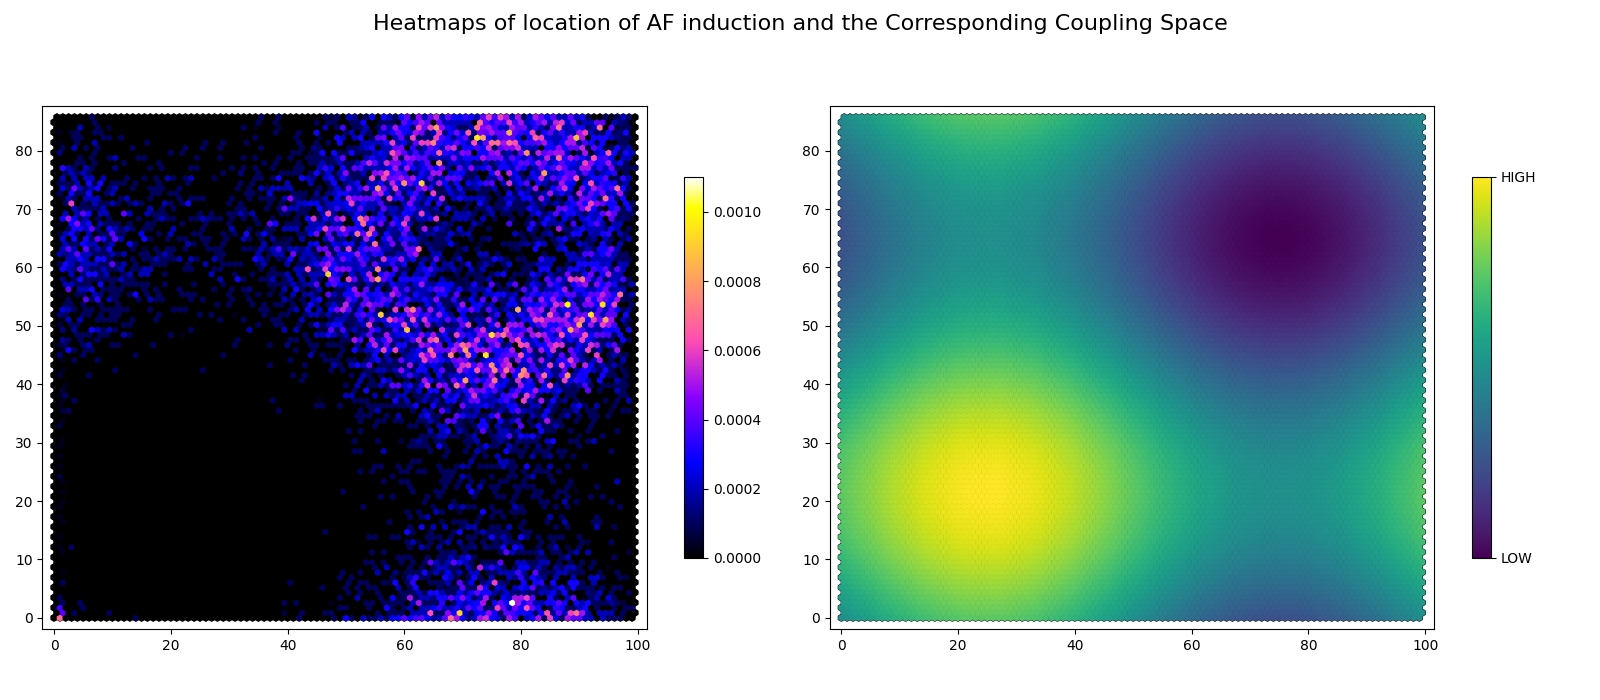
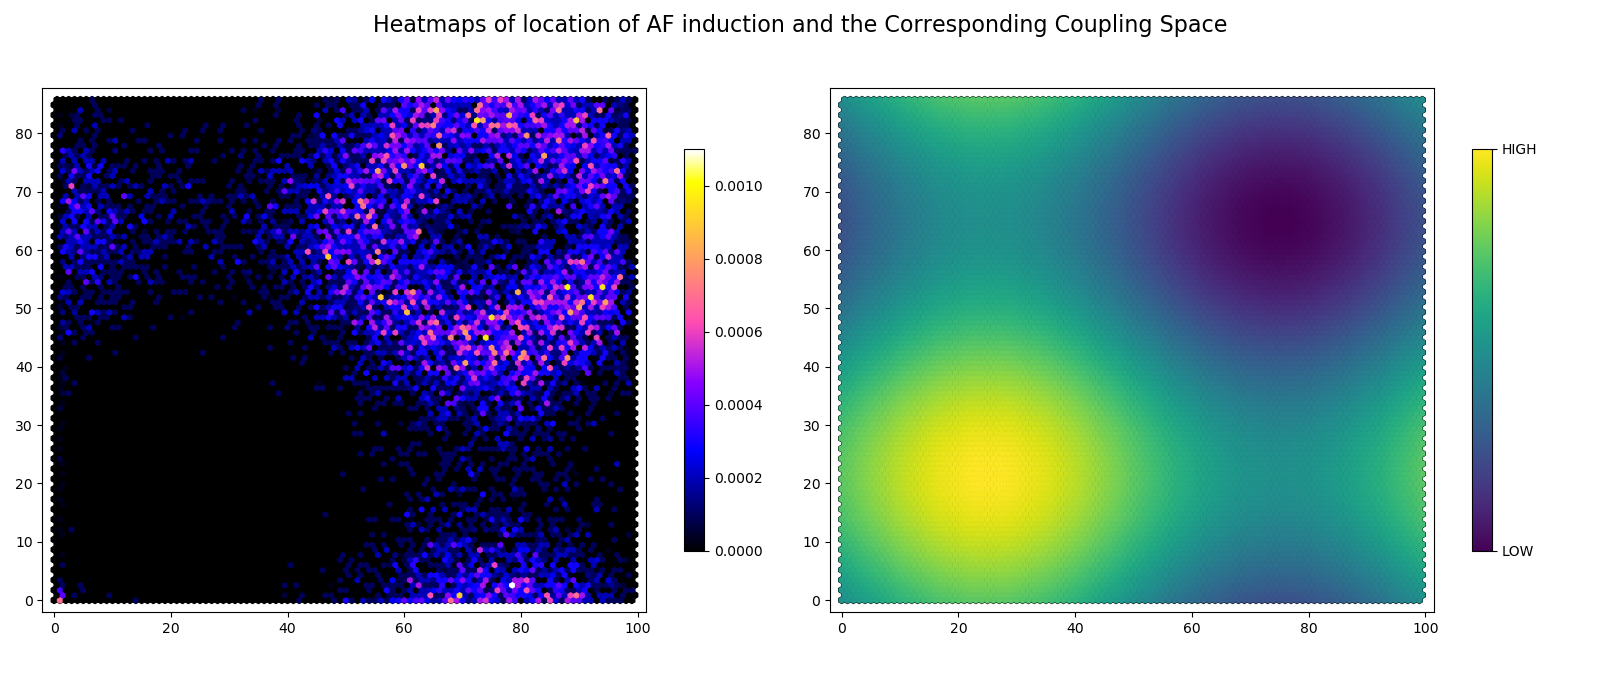
Fixed Heatmap

diff --git a/heatmap.py b/heatmap.py
@@ -46,114 +46,63 @@ def value_counts(df,n):
 
     return np.array(locs_[0])
 
-def plot_heat_map(fname, convolve = True):
+def plot_heat_map(fname, convolve = False, presave = True, contour = False,):
     runs = pd.read_csv(fname + '.csv')
-    #print(type(runs.iloc[6438,21]))
     #Fix problem of trues in location 4, set to location 3 value
     runs.loc[runs['location_4'] == 'True', 'location_4'] = runs.loc[runs['location_4'] == 'True']['location_3']
     runs = runs.loc[runs['in AF?']] #Only look at ones that enter AF.
 
-    #Amplitude above 0.5
-    #Amplitude below 0.1
-    #LIMITS
-    '''for ind, row in runs.iterrows():
-        list_ = str(row['normal_modes_config']).split('[')[1].split(']')[0].split(',')
-        amp, offs = float(list_[1]), float(list_[2])
-        if (amp > 0.5) or (amp < 0.05) or (offs < 0.59):
-            runs = runs.drop(index = ind)'''
-    
-    A = int(fname.split('_')[-1]) #Need to pull out the value of A from fname, dont remember the format.
+    A = int(fname.split('_')[-1])
 
-    fig,(ax1,ax2) = plt.subplots(1,2)
-    fig.set_size_inches(16,7)
+    if contour:
+        fig,ax1 = plt.subplots()
+    else:
+        fig,(ax1,ax2) = plt.subplots(1,2)
+        fig.set_size_inches(16,7)
+
     hex_centers, ax1 = create_hex_grid(nx=100, ny=100, do_plot=True, align_to_origin = False, h_ax = ax1)
     x = [i[0] for i in hex_centers]
     y = [i[1] for i in hex_centers]
 
-    loc2 = value_counts(runs,2)
-    loc3 = value_counts(runs,3)
-    loc4 = value_counts(runs,4)
+    if presave:
+        locs = np.load('con_locs_{}.npy'.format(A)) #Retri
+    else:
+        loc2 = value_counts(runs,2)
+        loc3 = value_counts(runs,3)
+        loc4 = value_counts(runs,4)
 
-    locs = (loc2+loc3+loc4)/(3*len(runs))
+        locs = (loc2+loc3+loc4)/(3*len(runs))
 
-    if convolve:
-        locs = Convolve(locs, 3, 0.75)
-        np.save('con_locs_{}.npy'.format(A), np.asanyarray(locs))
-    loc_plot = ax1.scatter(x,y,marker = 'h', s=17, c = locs, cmap = 'gnuplot2') # gist_gray, gnuplot
-    fig.colorbar(loc_plot, ax = ax1, shrink = 0.6)
+        if convolve:
+            locs = Convolve(locs, 3, 0.75)
+            np.save('con_locs_{}.npy'.format(A), np.asanyarray(locs))
 
-    #Plot the sapce onto the same figure.
-    _, ax2 = create_hex_grid(nx=100,ny=100, do_plot=True, align_to_origin = False, h_ax = ax2)
+    if contour:
+        loc_plot = ax1.scatter(x,y,marker = 'h', s=17, c = locs, cmap = 'ocean') # gist_gray, gnuplot
+        fig.colorbar(loc_plot, ax = ax1, shrink = 0.6)
 
-    #0.1, 1 - amp,offs: I jsut chose arbitrary values but have to be careful with colorbars here.
+        X = np.linspace(0,100,100)
+        Y = np.linspace(0, max(y), 100)
+        sin_z = [[sinusoid2D(X[i], Y[j], A, 0.1, 1) for i in range(100)] for j in range(100)]
+        ax1.contour(X,Y, sin_z, levels = 3, cmap = 'binary', alpha = 0.6)#, levels)
+        name = 'a_contour_heatmap_' + str(A) +'.png'
+    else:
+        loc_plot = ax1.scatter(x,y,marker = 'h', s=17, c = locs, cmap = 'gnuplot2') # gist_gray, gnuplot
 
-    sin_z = [sinusoid2D(x[i], y[i], A, 0.1, 1) for i in range(len(x))]
-
-    couple_plot = ax2.scatter(x,y,marker = 'h', s=17, c = sin_z)
-    cbar = fig.colorbar(couple_plot, ax = ax2, shrink = 0.6, ticks = [min(sin_z), max(sin_z)])
-
-    cbar.ax.set_yticklabels(['LOW', 'HIGH'])  # vertically oriented colorbar
-    
+        sin_z = [sinusoid2D(x[i], y[i], A, 0.1, 1) for i in range(len(x))]
+        _, ax2 = create_hex_grid(nx=100,ny=100, do_plot=True, align_to_origin = False, h_ax = ax2)
+        couple_plot = ax2.scatter(x,y,marker = 'h', s=17, c = sin_z)
+        cbar = fig.colorbar(couple_plot, ax = ax2, shrink = 0.6, ticks = [min(sin_z), max(sin_z)])
+        name = 'a_heatmap_' + str(A) +'.png'
+        cbar.ax.set_yticklabels(['LOW', 'HIGH'])  # vertically oriented colorbar
     
     fig.suptitle('Heatmaps of location of AF induction and the Corresponding Coupling Space', fontsize = 16)
     plt.tight_layout()
-    name = 'heatmap_' + str(A) +'.png'
     if convolve:
-        name = 'convolved_heatmap_' + str(A) +'.png'
+        name = 'a_convolved_' + name
     plt.savefig(name)
     plt.close()
-
-def plot_heat_map_contour(fname, convolve = True):
-    runs = pd.read_csv(fname + '.csv')
-    #print(type(runs.iloc[6438,21]))
-    #Fix problem of trues in location 4, set to location 3 value
-    runs.loc[runs['location_4'] == 'True', 'location_4'] = runs.loc[runs['location_4'] == 'True']['location_3']
-    runs = runs.loc[runs['in AF?']] #Only look at ones that enter AF.
-
-    #Amplitude above 0.5
-    #Amplitude below 0.1
-    #LIMITS
-    '''for ind, row in runs.iterrows():
-        list_ = str(row['normal_modes_config']).split('[')[1].split(']')[0].split(',')
-        amp, offs = float(list_[1]), float(list_[2])
-        if (amp > 0.5) or (amp < 0.05) or (offs < 0.59):
-            runs = runs.drop(index = ind)'''
     
-    A = int(fname.split('_')[-1]) #Need to pull out the value of A from fname, dont remember the format.
-
-    fig,ax1 = plt.subplots()
-    hex_centers, ax1 = create_hex_grid(nx=100, ny=100, do_plot=True, align_to_origin = False, h_ax = ax1)
-    x = [i[0] for i in hex_centers]
-    y = [i[1] for i in hex_centers]
-    loc2 = value_counts(runs,2)
-    loc3 = value_counts(runs,3)
-    loc4 = value_counts(runs,4)
-
-    locs = ((loc2+loc3+loc4)/(3*len(runs)))
-
-    if convolve:
-        locs = Convolve(locs, 3, 0.75)
-        np.save('con_locs_{}.npy'.format(A), np.asanyarray(locs))
-    X = np.linspace(0,100,100)
-    Y = np.linspace(0, max(y), 100)
-    sin_z = [[sinusoid2D(X[i], Y[j], A, 0.1, 1) for i in range(100)] for j in range(100)]
-    loc_plot = ax1.scatter(x,y,marker = 'h', s=17, c = locs, cmap = 'ocean') # gist_gray, gnuplot
-    fig.colorbar(loc_plot, ax = ax1, shrink = 0.6)
-
-    levels = np.linspace(min(sin_z), max(sin_z), 5)
-
-    ax1.contour(X,Y, sin_z, levels = 3, cmap = 'binary', alpha = 0.6)#, levels)
-        
-    fig.suptitle('Heatmaps of location of AF induction \nand the Corresponding Coupling Space', fontsize = 16)
-    plt.tight_layout()
-    name = 'contour_heatmap_' + str(A) +'.png'
-    if convolve:
-        name = 'convolved_contour_heatmap_' + str(A) +'.png'
-    plt.savefig(name)
-    plt.close()
-
-    
-
 def Convolve(c,l,theta):
     #for a given index - calculate all indexs that should for convolve with it
     #With these indicies, calculate the exponential weight terms
@@ -177,10 +126,19 @@ def Convolve(c,l,theta):
 
 
 t0 = time.time()
-plot_heat_map_contour('FailureMultiplierData_5', False) #0,1,3,5,10,20
+plot_heat_map('FailureMultiplierData_1',0,0,0) #0,1,3,5,10,20
 t1 = time.time()
 print(t1-t0)
 
 
 #Amps and offsets
 #(0.2,0.75)
+
+
+'''
+#Applying limits to the runs - DONT NEED THIS ANYMORE
+for ind, row in runs.iterrows():
+    list_ = str(row['normal_modes_config']).split('[')[1].split(']')[0].split(',')
+    amp, offs = float(list_[1]), float(list_[2])
+    if (amp > 0.5) or (amp < 0.05) or (offs < 0.59):
+        runs = runs.drop(index = ind)'''
